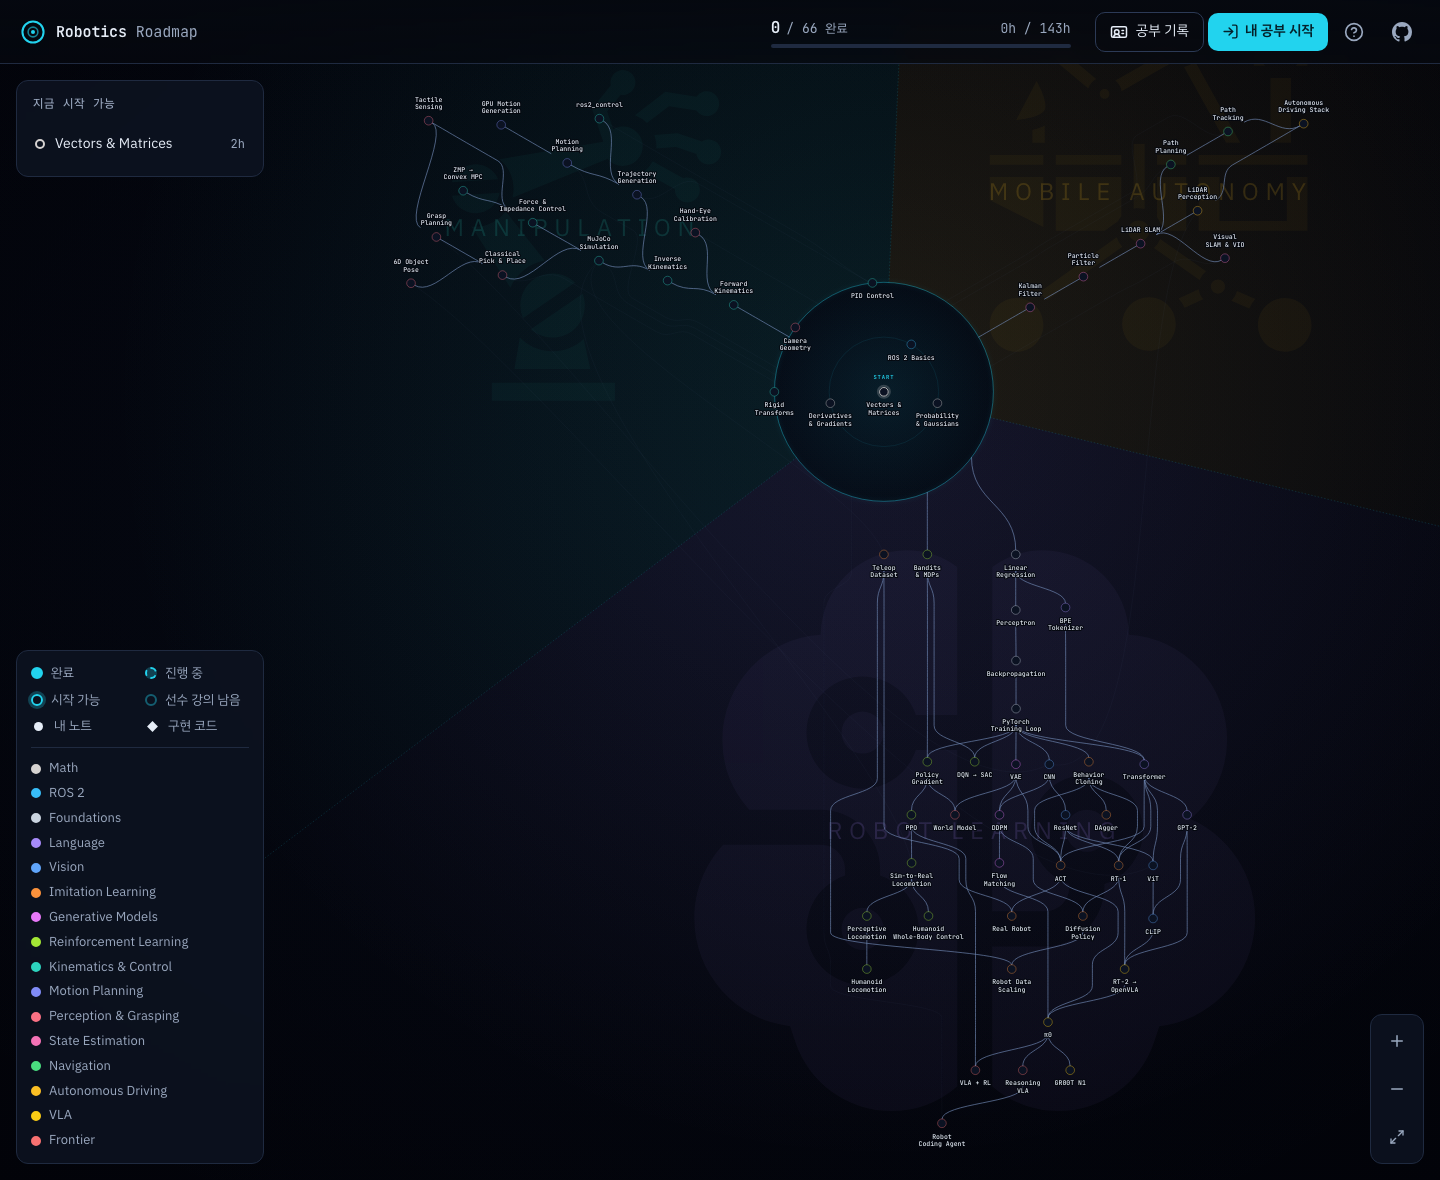
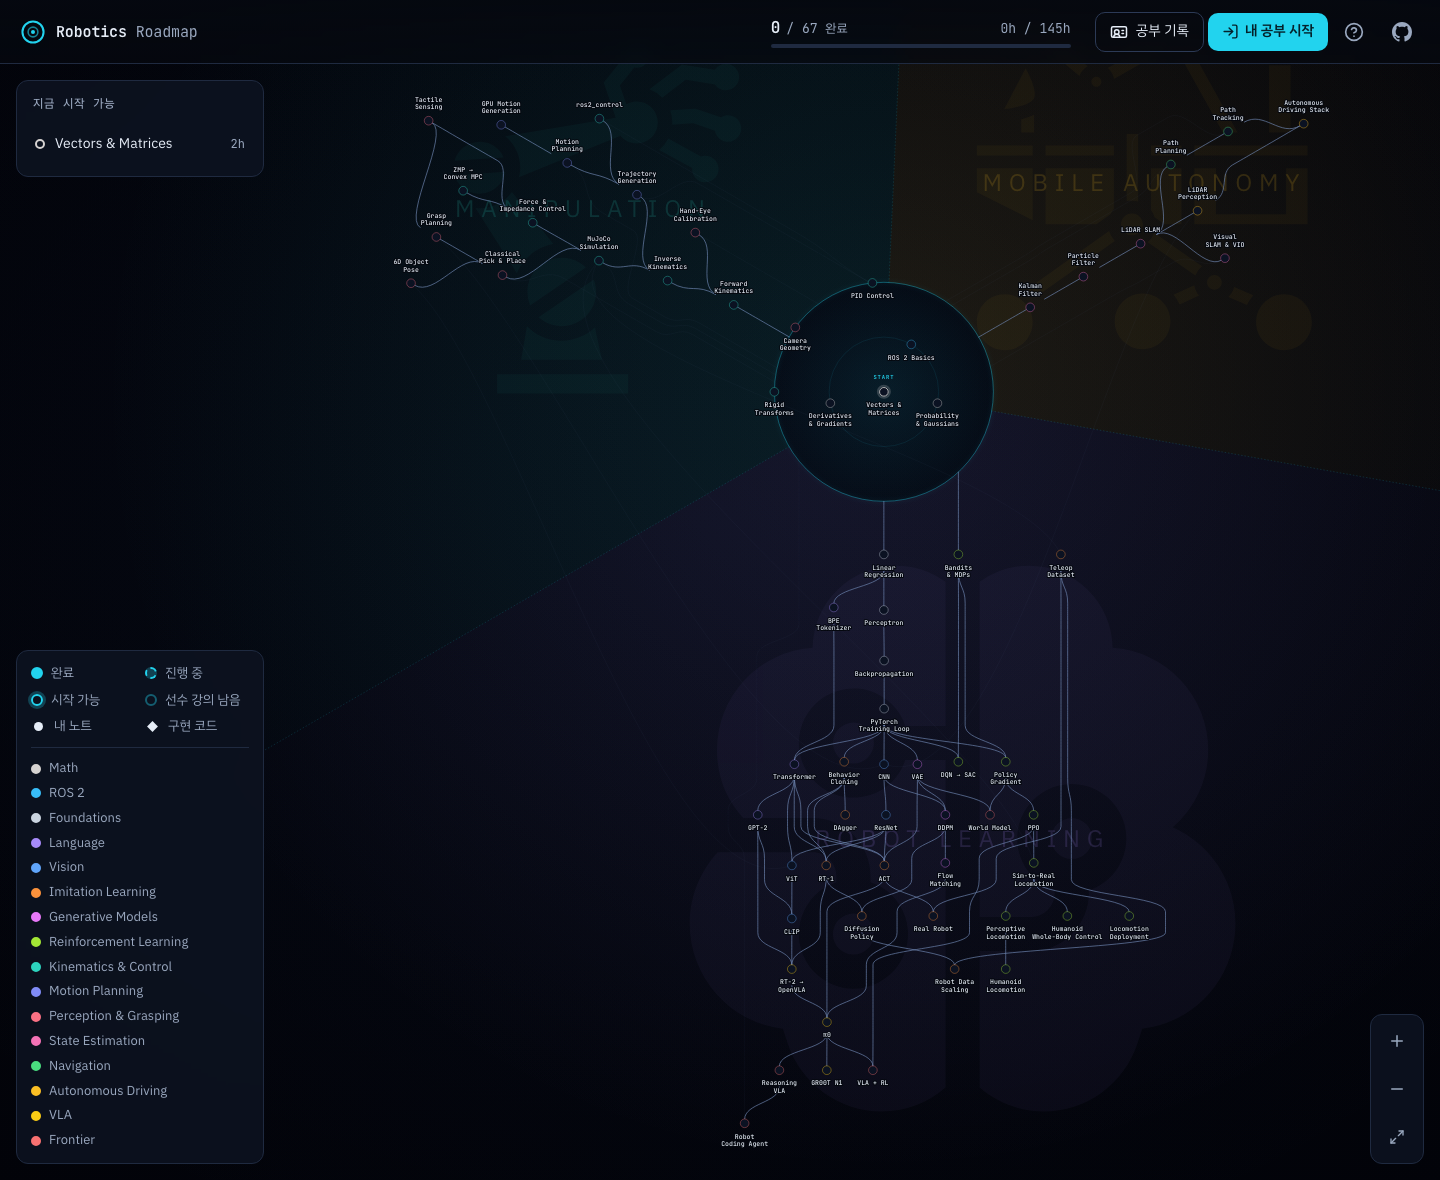
Redraw the map and preview image for 67 lessons

diff --git a/site/src/config.ts b/site/src/config.ts
@@ -34,7 +34,7 @@ export const CONFIG = {
     title: 'Robotics Roadmap · gawbi',
     description: 'Robot Learning·Manipulation 을 준비하며 공부한 기록. 강의 지도 위에 퀴즈 통과 기록, 직접 쓴 노트, 직접 구현한 코드를 남깁니다.',
     // site/public/og.png. Link previews are cached by the image's URL, so bump `v` whenever the picture changes
-    image: 'og.png?v=5',
+    image: 'og.png?v=6',
     imageWidth: 1200,
     imageHeight: 630,
     imageAlt: 'Robotics Roadmap · gawbi. 로보틱스를 직접 공부한 기록, Robot Learning · Manipulation. 퀴즈 통과 기록, 내 말로 쓴 노트, 직접 구현한 코드',
